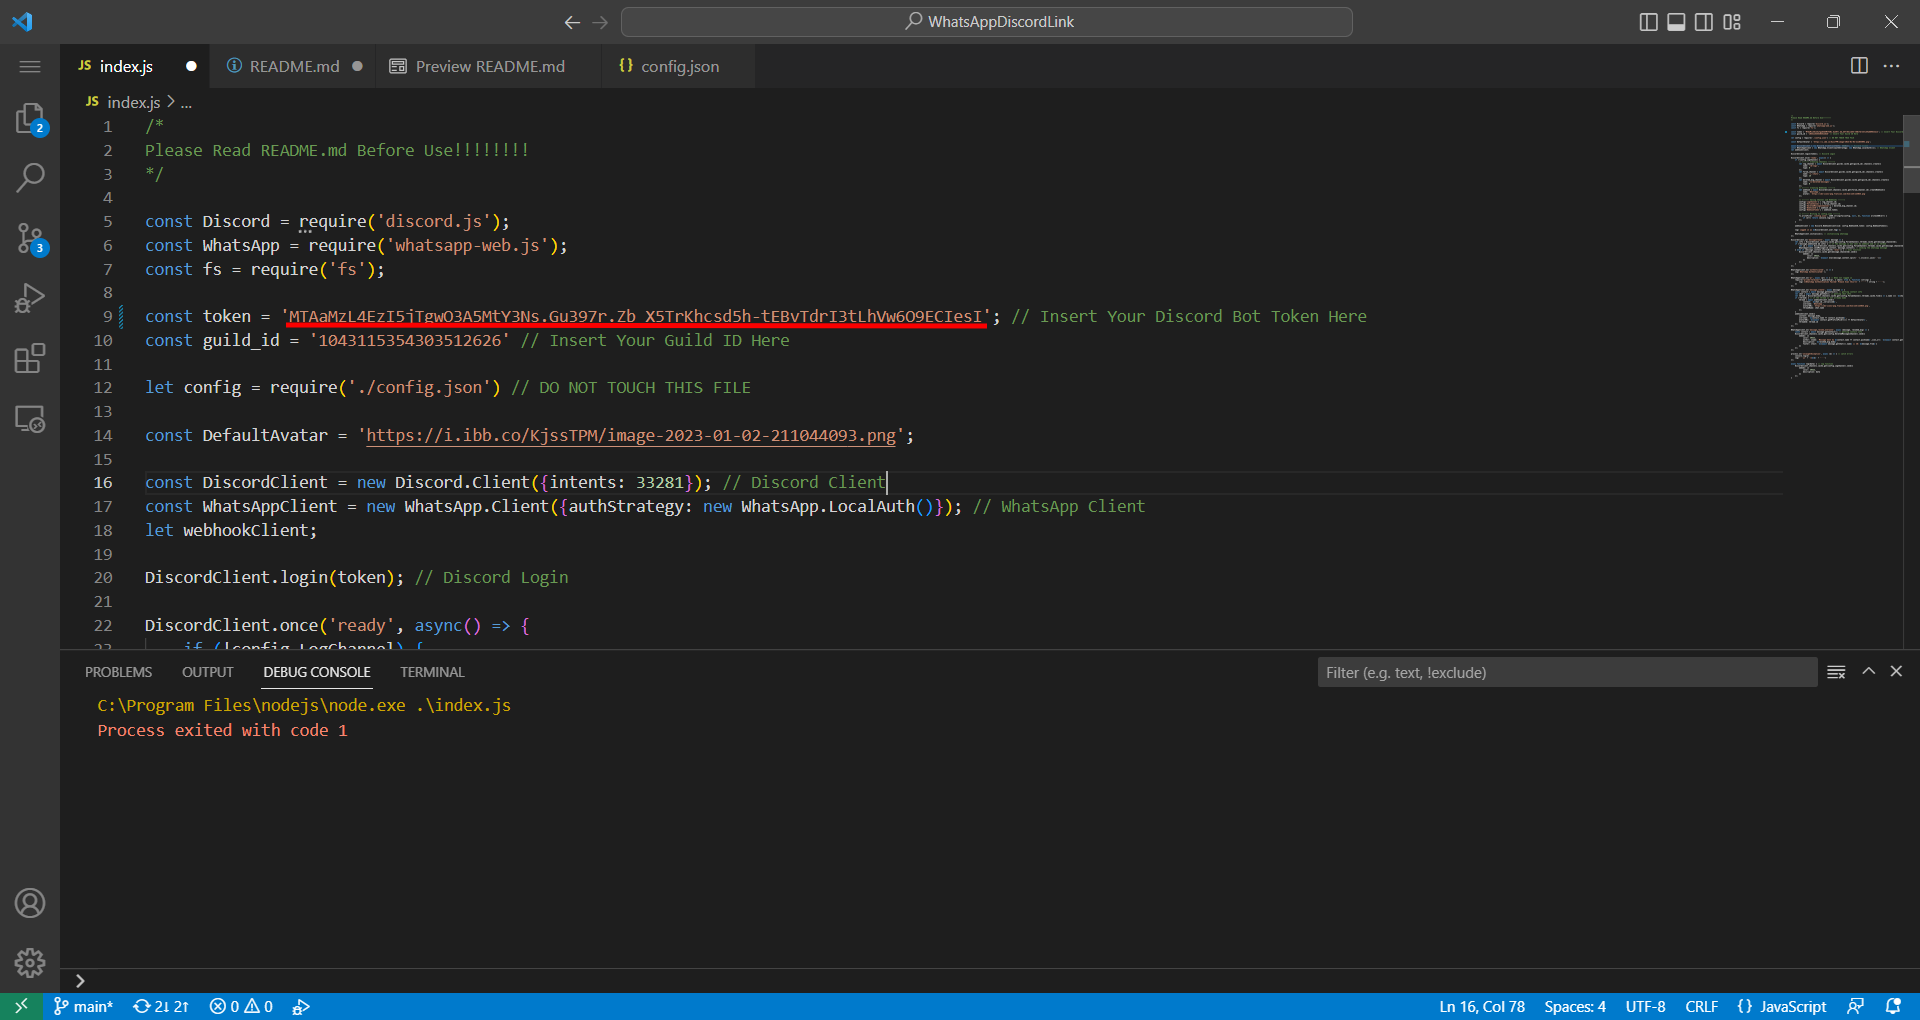
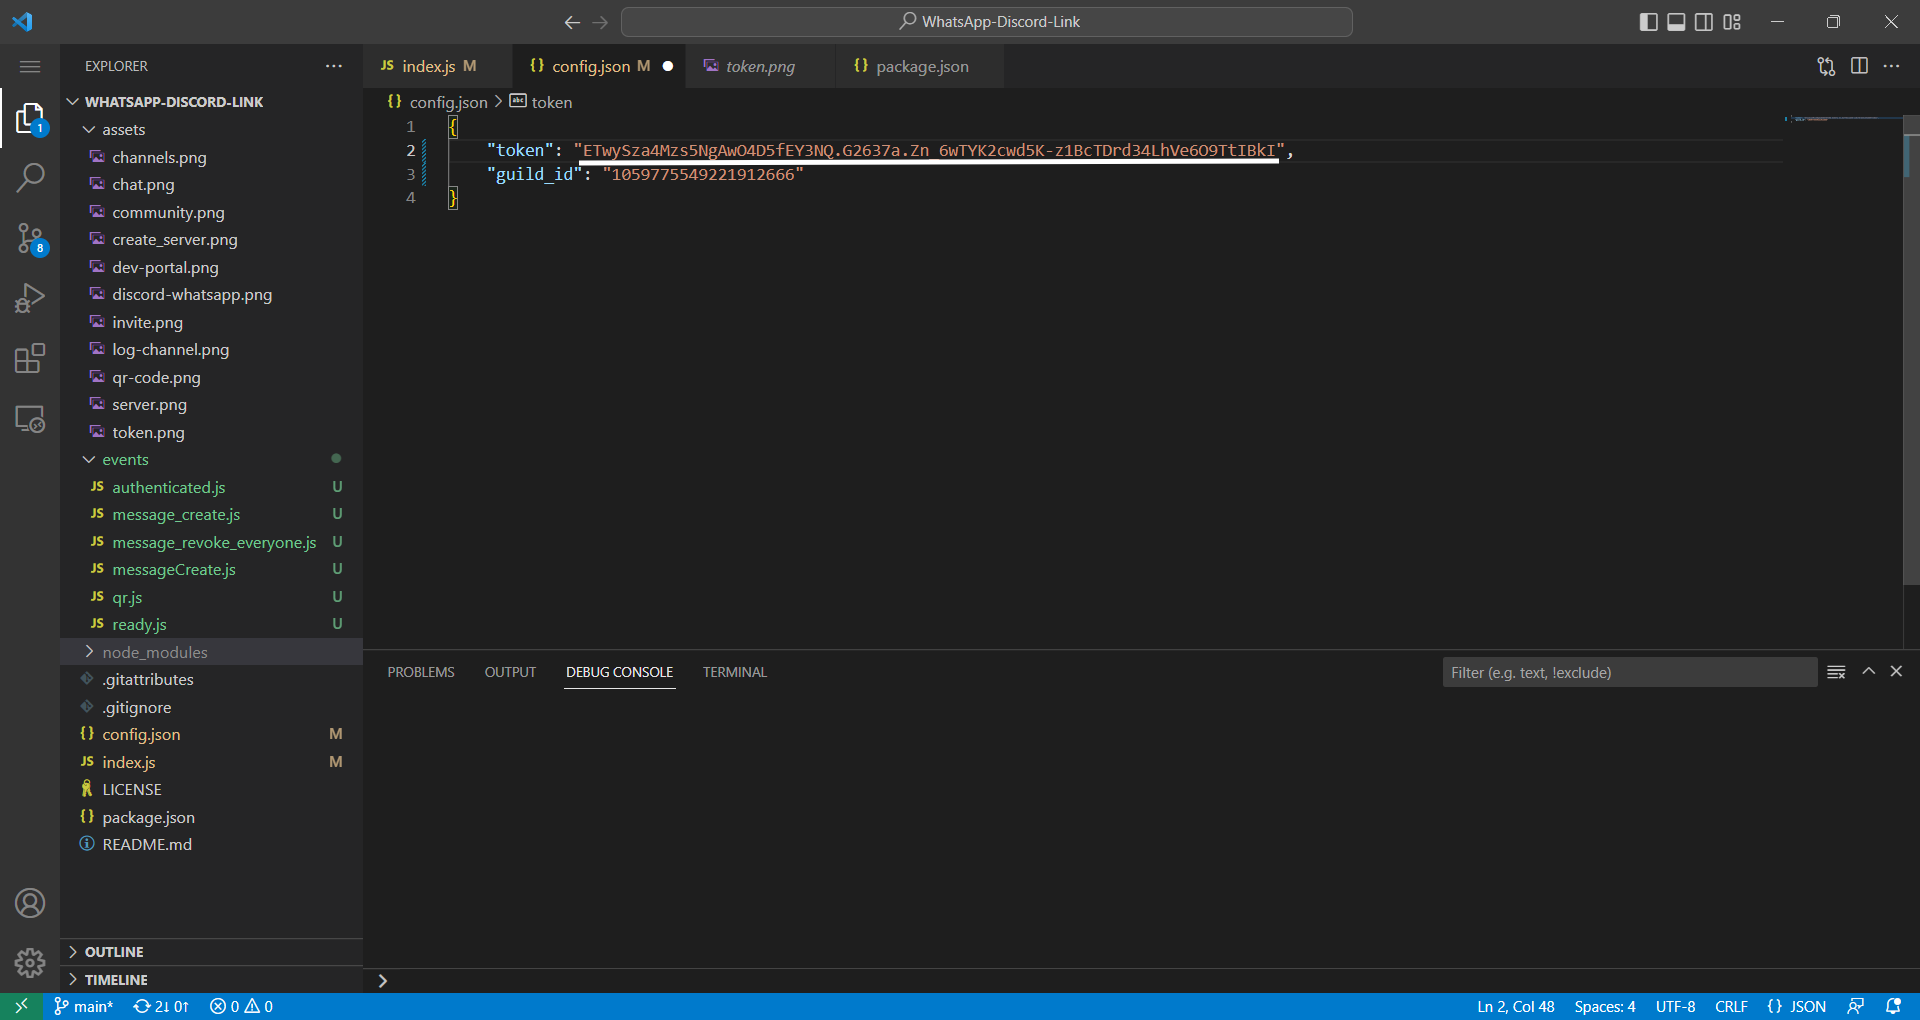
Changes to File Structure

diff --git a/index.js b/index.js
@@ -4,104 +4,27 @@ Please Read README.md Before Use!!!!!!!!
 
 const Discord = require('discord.js');
 const WhatsApp = require('whatsapp-web.js');
-const fs = require('fs');
-
-const token = 'YourBotToken'; // Insert Your Discord Bot Token Here
-const guild_id = '1059775549221912666'; // Insert Your Guild ID Here
-
-let config = require('./config.json'); // DO NOT TOUCH THIS FILE
-
-const DefaultAvatar = 'https://i.ibb.co/KjssTPM/image-2023-01-02-211044093.png';
+const fs = require('fs')
+const config = require('./config.json');
 
 const DiscordClient = new Discord.Client({intents: 33281}); // Discord Client
 const WhatsAppClient = new WhatsApp.Client({authStrategy: new WhatsApp.LocalAuth()}); // WhatsApp Client
-let webhookClient;
 
-DiscordClient.login(token); // Discord Login
+DiscordClient.login(config.token);
+WhatsAppClient.initialize();
 
-DiscordClient.once('ready', async () => {
-  if (!config.LogChannel) {
-    // <------ Saving and creating Channels ------>
-    config['LogChannel'] = (await DiscordClient.guilds.cache.get(guild_id).channels.create({name: '🪵-logs', type: 0})).id;
-    config['ForumChannel'] = (await DiscordClient.guilds.cache.get(guild_id).channels.create({name: '💬-chats', type: 15})).id;
-    config['DeletedMessagesChannel'] = (await DiscordClient.guilds.cache.get(guild_id).channels.create({name: '🗑-deleted-messages', type: 0})).id;
+const eventFiles = fs.readdirSync(`./events/`).filter(file => file.endsWith(".js"))
 
-    // <------ Saving and creating webhook ------>
-    let webhook = await DiscordClient.channels.cache.get(config.ForumChannel).createWebhook({name: 'WhatsApp',avatar: `https://cdn-icons-png.flaticon.com/512/124/124034.png`});
-    config['WebhookID'] = webhook.id;
-    config['WebhookToken'] = webhook.token;
-
-    // <------ Writing to config.json ------>
-    fs.writeFile('./config.json',JSON.stringify(config, null, 2),function writeJSON(err) {if (err) return console.log(err)});
+eventFiles.forEach(file=>{
+  const event = require(`./events/${file}`);
+  if(event.type === "discord"){
+    DiscordClient.on(event.name, (...args) => event.execute(DiscordClient, WhatsAppClient, ...args));
+  } else {
+    WhatsAppClient.on(event.name, (...args) => event.execute(DiscordClient, ...args));
   }
-
-  webhookClient = new Discord.WebhookClient({id: config.WebhookID,token: config.WebhookToken});
-  log(`Logged in as ${DiscordClient.user.tag}`);
-  WhatsAppClient.initialize(); // initializing whatsapp
-});
-
-DiscordClient.on('messageCreate', async (message) => {
-  let info = DiscordClient.channels.cache.get(config.ForumChannel).threads.cache.get(message.channelId);
-  if (!message.webhookId && info) { // if the message is not sent by webhook and is in thread
-    let id = await DiscordClient.channels.cache.get(config.ForumChannel).threads.cache.get(message.channelId).fetchStarterMessage(); // getting the first message of the thread which contains the ID
-    WhatsAppClient.sendMessage(id.content, message.content); // sending the whatsapp message
-  }
-});
-
-WhatsAppClient.on('authenticated', () => {
-  log(`WhatsApp Authenticated!`);
-});
-
-WhatsAppClient.on('qr', async (qr) => { // When not logged in
-  require('qrcode-terminal').generate(qr, {small: true}, function (string) {log(`**WhatsApp Authentication Failed! Please Scan this!**`+'```'+string +'```');});
-});
-
-WhatsAppClient.on('message_create', async (message) => {
-  const contact = await message.getContact(); // getting contact info
-  let chat = await message.getChat(); // getting chat info
-  let thread = DiscordClient.channels.cache.get(config.ForumChannel).threads.cache.find((x) => x.name === `${chat.name}`);
-  if (chat.id._serialized != 'status@broadcast') {
-    if (!thread) { // if the thread is not already made
-      thread = await webhookClient.send({
-        content: `${chat.id._serialized}`,
-        username: `WhatsApp`,
-        avatarURL: `https://cdn-icons-png.flaticon.com/512/124/124034.png`,
-        threadName: chat.name,
-      });
-    }
-    webhookClient.send({
-      content: message.body,
-      username: `${contact.name ?? contact.pushname}`,
-      avatarURL: `${(await contact.getProfilePicUrl()) ?? DefaultAvatar}`,
-      threadId: thread.id,
-    });
-  }
-});
-
-WhatsAppClient.on('message_revoke_everyone', async (message, revoked_msg) => {
-  const contact = await message.getContact(); // getting contact info
-  DiscordClient.channels.cache.get(config.DeletedMessagesChannel).send({
-      embeds: [
-        {
-          color: 39423,
-          author: {
-            name: `Message Sent by ${contact.name ?? contact.pushname}`,
-            icon_url: `${(await contact.getProfilePicUrl()) ?? DefaultAvatar}`,
-          },
-          description: `${revoked_msg.body}`,
-          footer: {
-            text: `${(await message.getChat()).name} || ID: ${message.from}`,
-          },
-        },
-      ],
-    });
 });
 
 process.on('uncaughtException', async (e) => { // catch errors
   console.log(e);
-  log('```js' + `\n${e}` + '```');
+  DiscordClient.channels.cache.get(config.LogChannel).send({embeds: [{color: 39423, description: `\`\`\`js\n${e}\`\`\``}]});
 });
-
-async function log(data) { // log function
-  DiscordClient.channels.cache.get(config.LogChannel).send({embeds: [{color: 39423, description: data}]});
-}

diff --git a/events/ready.js b/events/ready.js
@@ -1,0 +1,23 @@
+module.exports = {
+    name: "ready",
+    type: "discord",
+    async execute(DiscordClient) {
+        const fs = require('fs')
+        let config = require('../config.json')
+        if (!config.LogChannel) {
+            // <------ Saving and creating Channels ------>
+            config['LogChannel'] = (await DiscordClient.guilds.cache.get(config.guild_id).channels.create({name: '🪵-logs', type: 0})).id;
+            config['ForumChannel'] = (await DiscordClient.guilds.cache.get(config.guild_id).channels.create({name: '💬-chats', type: 15})).id;
+            config['DeletedMessagesChannel'] = (await DiscordClient.guilds.cache.get(config.guild_id).channels.create({name: '🗑-deleted-messages', type: 0})).id;
+        
+            // <------ Saving and creating webhook ------>
+            let webhook = await DiscordClient.channels.cache.get(config.ForumChannel).createWebhook({name: 'WhatsApp',avatar: `https://cdn-icons-png.flaticon.com/512/124/124034.png`});
+            config['WebhookID'] = webhook.id;
+            config['WebhookToken'] = webhook.token;
+        
+            // <------ Writing to config.json ------>
+            fs.writeFile('./config.json',JSON.stringify(config, null, 2),function writeJSON(err) {if (err) return console.log(err)});
+        }
+        DiscordClient.channels.cache.get(config.LogChannel).send({embeds: [{color: 39423, description: `Logged in as ${DiscordClient.user.tag}`}]});
+    }
+}

diff --git a/events/message_create.js b/events/message_create.js
@@ -1,0 +1,28 @@
+module.exports = {
+    name: "message_create",
+    async execute(DiscordClient, message) {
+        const config = require('../config.json')
+        const Discord = require('discord.js')
+        const DefaultAvatar = 'https://i.ibb.co/KjssTPM/image-2023-01-02-211044093.png';
+        const webhookClient = new Discord.WebhookClient({id: config.WebhookID,token: config.WebhookToken});
+        const contact = await message.getContact();
+        let chat = await message.getChat();
+        let thread = DiscordClient.channels.cache.get(config.ForumChannel).threads.cache.find((x) => x.name === `${chat.name}`);
+        if (chat.id._serialized != 'status@broadcast') {
+            if (!thread) {
+                thread = await webhookClient.send({
+                    content: `${chat.id._serialized}`,
+                    username: `WhatsApp`,
+                    avatarURL: `https://cdn-icons-png.flaticon.com/512/124/124034.png`,
+                    threadName: chat.name,
+                });
+            }
+            webhookClient.send({
+                content: message.body,
+                username: `${contact.name ?? contact.pushname}`,
+                avatarURL: `${(await contact.getProfilePicUrl()) ?? DefaultAvatar}`,
+                threadId: thread.id,
+            });
+        }
+    }
+}

diff --git a/events/message_revoke_everyone.js b/events/message_revoke_everyone.js
@@ -1,0 +1,23 @@
+module.exports = {
+    name: "message_revoke_everyone",
+    async execute(DiscordClient, message, revoked_msg) {
+        const config = require('../config.json')
+        const DefaultAvatar = 'https://i.ibb.co/KjssTPM/image-2023-01-02-211044093.png';
+        const contact = await message.getContact();
+        DiscordClient.channels.cache.get(config.DeletedMessagesChannel).send({
+            embeds: [
+                {
+                    color: 39423,
+                    author: {
+                        name: `Message Sent by ${contact.name ?? contact.pushname}`,
+                        icon_url: `${(await contact.getProfilePicUrl()) ?? DefaultAvatar}`,
+                    },
+                    description: `${revoked_msg.body}`,
+                    footer: {
+                        text: `${(await message.getChat()).name} || ID: ${message.from}`,
+                    },
+                },
+            ],
+        });
+    }
+}

diff --git a/events/messageCreate.js b/events/messageCreate.js
@@ -1,0 +1,12 @@
+module.exports = {
+    name: "messageCreate",
+    type: "discord",
+    async execute(DiscordClient, WhatsAppClient, message) {
+        const config = require('../config.json')
+        let info = DiscordClient.channels.cache.get(config.ForumChannel).threads.cache.get(message.channelId);
+        if (!message.webhookId && info) {
+            let id = await DiscordClient.channels.cache.get(config.ForumChannel).threads.cache.get(message.channelId).fetchStarterMessage();
+            WhatsAppClient.sendMessage(id.content, message.content);
+        }
+    }
+}

diff --git a/events/qr.js b/events/qr.js
@@ -1,0 +1,11 @@
+module.exports = {
+    name: "qr",
+    async execute(DiscordClient, qr) {
+        const config = require('../config.json')
+        require('qrcode-terminal').generate(qr, {
+            small: true
+        }, function (string) {
+            DiscordClient.channels.cache.get(config.LogChannel).send({embeds: [{color: 39423, description: `**WhatsApp Authentication Failed! Please Scan this!**\`\`\`${string}\`\`\``}]});
+        })
+    }
+}

diff --git a/events/authenticated.js b/events/authenticated.js
@@ -1,0 +1,7 @@
+module.exports = {
+    name: "authenticated",
+    async execute(DiscordClient, data) {
+        const config = require('../config.json')
+        DiscordClient.channels.cache.get(config.LogChannel).send({embeds: [{color: 39423, description: `WhatsApp Authenticated!`}]});
+    }
+}

diff --git a/README.md b/README.md
@@ -28,7 +28,7 @@
 <img src="./assets/dev-portal.png" style="max-width: 50%">
 <br></br>
 
-**Step 5:** Paste your Bot Token on **Line 9** of index.js
+**Step 5:** Paste your Bot Token on **Line 2** of config.json
 
 <img src="./assets/token.png" style="max-width: 50%">
 <br></br>
@@ -38,7 +38,7 @@
 <img src="./assets/server.png" style="max-width: 50%">
 <br></br>
 
-**Step 7:** Paste your server ID on **line 10** of index.js
+**Step 7:** Paste your server ID on **line 3** of config.js
 
 
 **Step 8:** Execute index.js. After starting, the bot will automatically generate 3 channels which can later re-named
